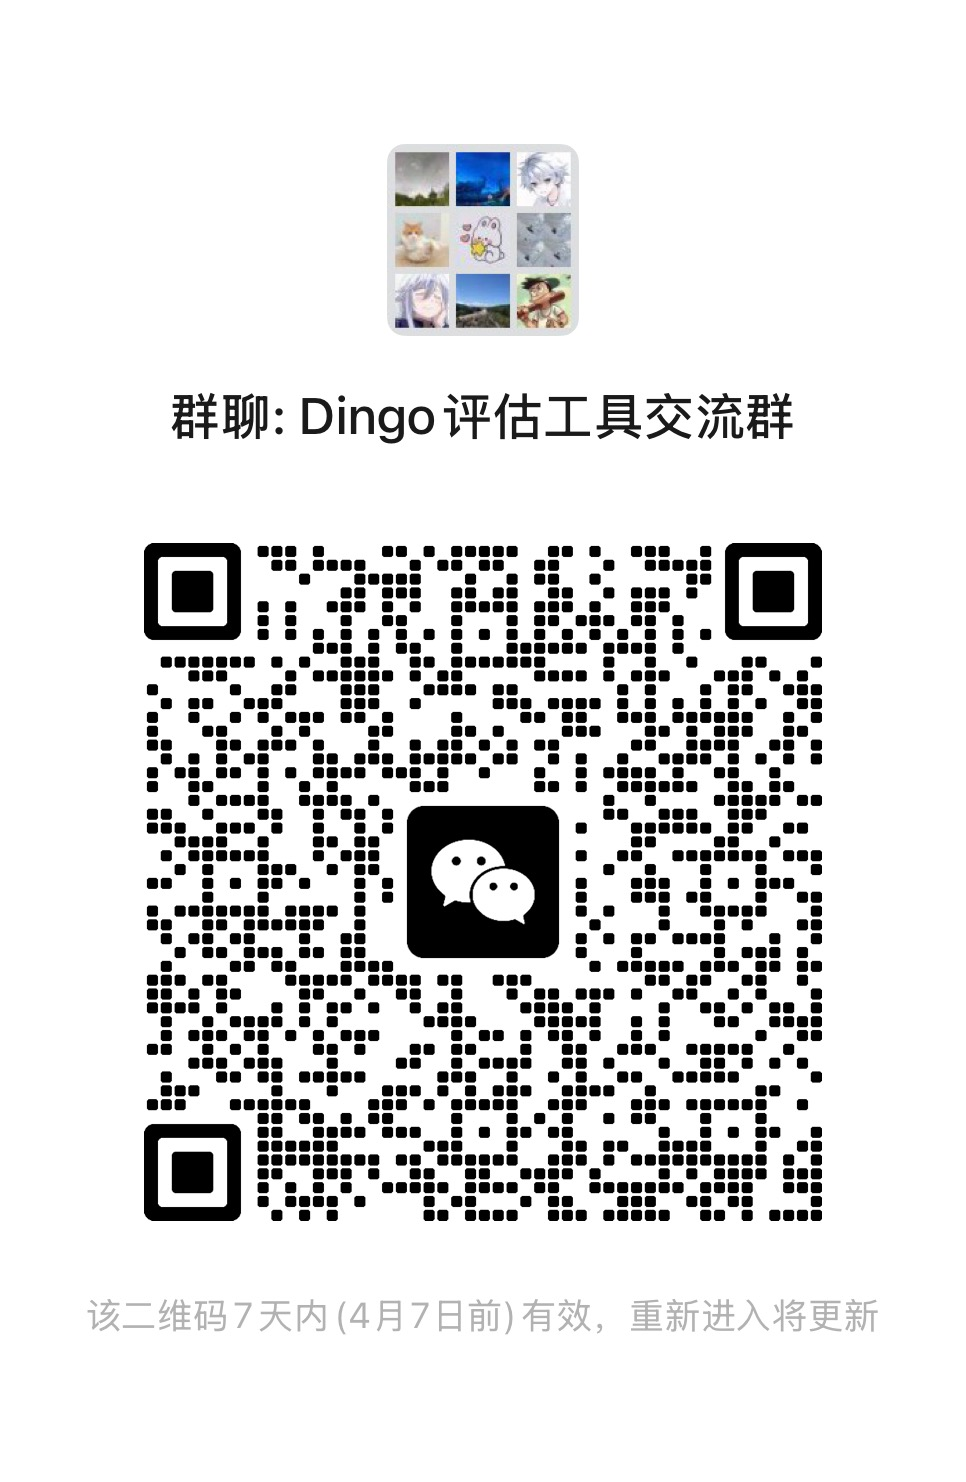
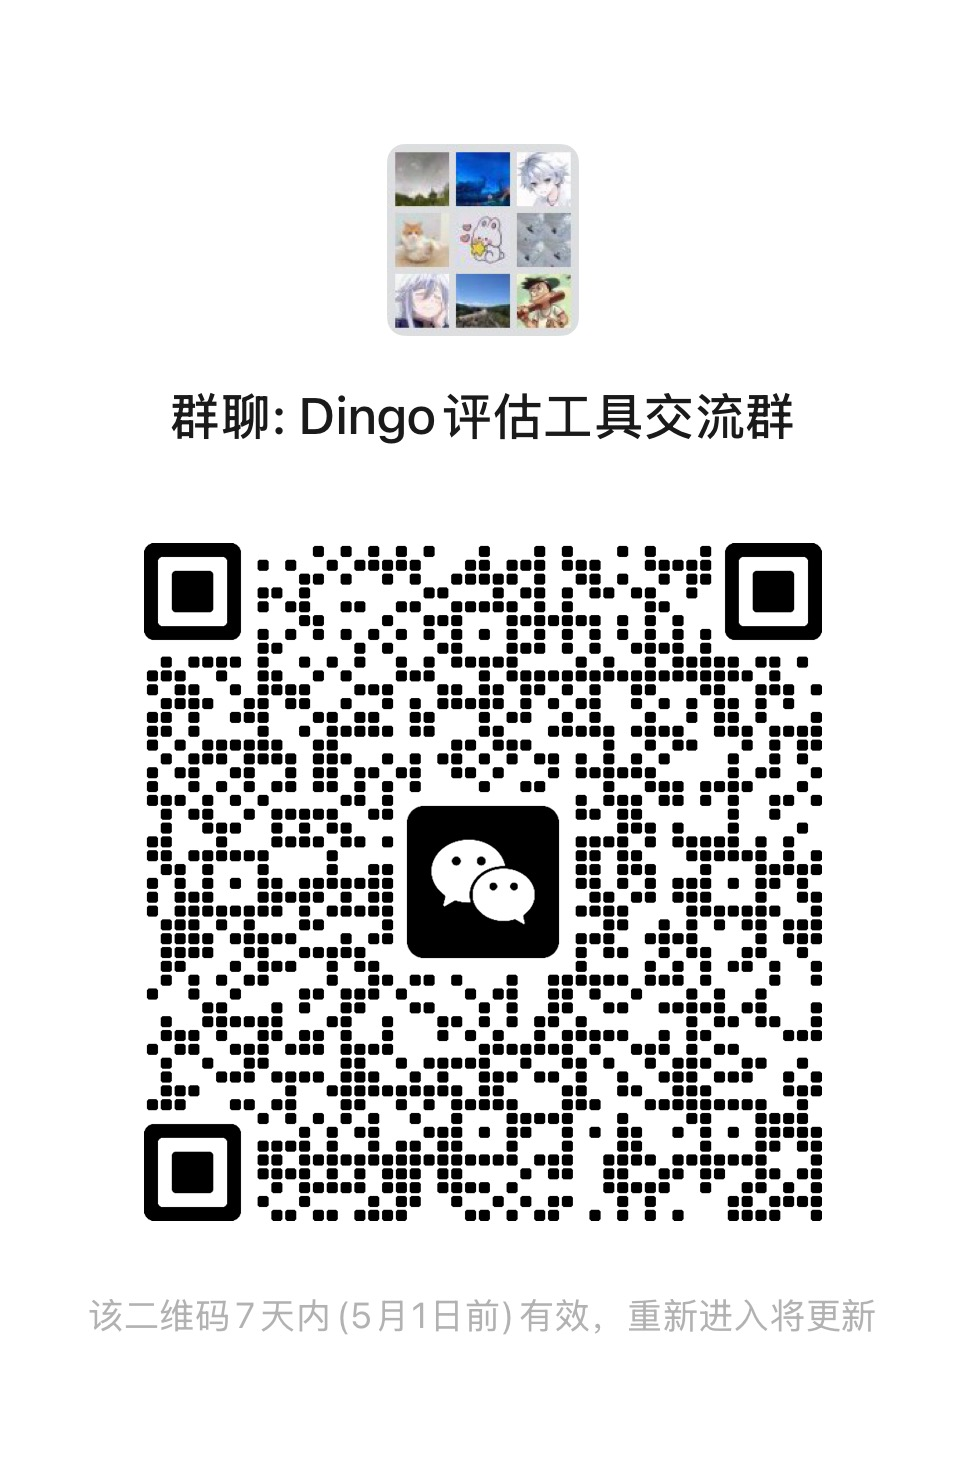
sync main to dev (#398)
* docs: update wechat (#390)

* docs: update wechat (#392)

* docs: update wechat (#395)

* Isolate evaluator dynamic configs (#396)

---------

diff --git a/test/scripts/model/test_model_config_isolation.py b/test/scripts/model/test_model_config_isolation.py
@@ -1,0 +1,41 @@
+from dingo.config.input_args import EvaluatorLLMArgs, EvaluatorRuleArgs
+from dingo.model.llm.text_quality.llm_text_quality_v5 import LLMTextQualityV5
+from dingo.model.model import Model
+from dingo.model.rule.rule_common import RulePatternSearch
+
+
+def test_set_config_rule_copies_dynamic_config_per_rule_object():
+    rule_a = RulePatternSearch()
+    rule_b = RulePatternSearch()
+
+    Model.set_config_rule(rule_a, EvaluatorRuleArgs(pattern="apple"))
+    Model.set_config_rule(rule_b, EvaluatorRuleArgs(pattern="banana"))
+
+    assert rule_a.dynamic_config is not rule_b.dynamic_config
+    assert rule_a.dynamic_config.pattern == "apple"
+    assert rule_b.dynamic_config.pattern == "banana"
+    assert RulePatternSearch.dynamic_config.pattern == "your pattern"
+
+
+def test_set_config_llm_copies_dynamic_config_per_llm_object():
+    # This verifies config object isolation only. Existing classmethod LLM evaluators
+    # still read cls.dynamic_config at runtime unless separately refactored.
+    llm_a = LLMTextQualityV5()
+    llm_b = LLMTextQualityV5()
+
+    Model.set_config_llm(
+        llm_a,
+        EvaluatorLLMArgs(model="model-a", parameters={"temperature": 0.1}),
+    )
+    Model.set_config_llm(
+        llm_b,
+        EvaluatorLLMArgs(model="model-b", parameters={"temperature": 0.9}),
+    )
+
+    assert llm_a.dynamic_config is not llm_b.dynamic_config
+    assert llm_a.dynamic_config.model == "model-a"
+    assert llm_b.dynamic_config.model == "model-b"
+    assert llm_a.dynamic_config.parameters == {"temperature": 0.1}
+    assert llm_b.dynamic_config.parameters == {"temperature": 0.9}
+    assert LLMTextQualityV5.dynamic_config.model is None
+    assert LLMTextQualityV5.dynamic_config.model_dump().get("parameters") is None

diff --git a/dingo/model/model.py b/dingo/model/model.py
@@ -157,7 +157,7 @@ class Model:
     def set_config_rule(cls, rule: BaseRule, rule_config: EvaluatorRuleArgs):
         if not rule_config:
             return
-        config_default = getattr(rule, 'dynamic_config')
+        config_default = rule.dynamic_config.model_copy(deep=True)
         # Iterate over rule_config fields using Pydantic's model_dump()
         for k, v in rule_config.model_dump().items():
             if v is not None:
@@ -168,7 +168,7 @@ class Model:
     def set_config_llm(cls, llm: BaseLLM, llm_config: EvaluatorLLMArgs):
         if not llm_config:
             return
-        config_default = getattr(llm, 'dynamic_config')
+        config_default = llm.dynamic_config.model_copy(deep=True)
         # Iterate over llm_config fields using Pydantic's model_dump()
         for k, v in llm_config.model_dump().items():
             if v is not None:
